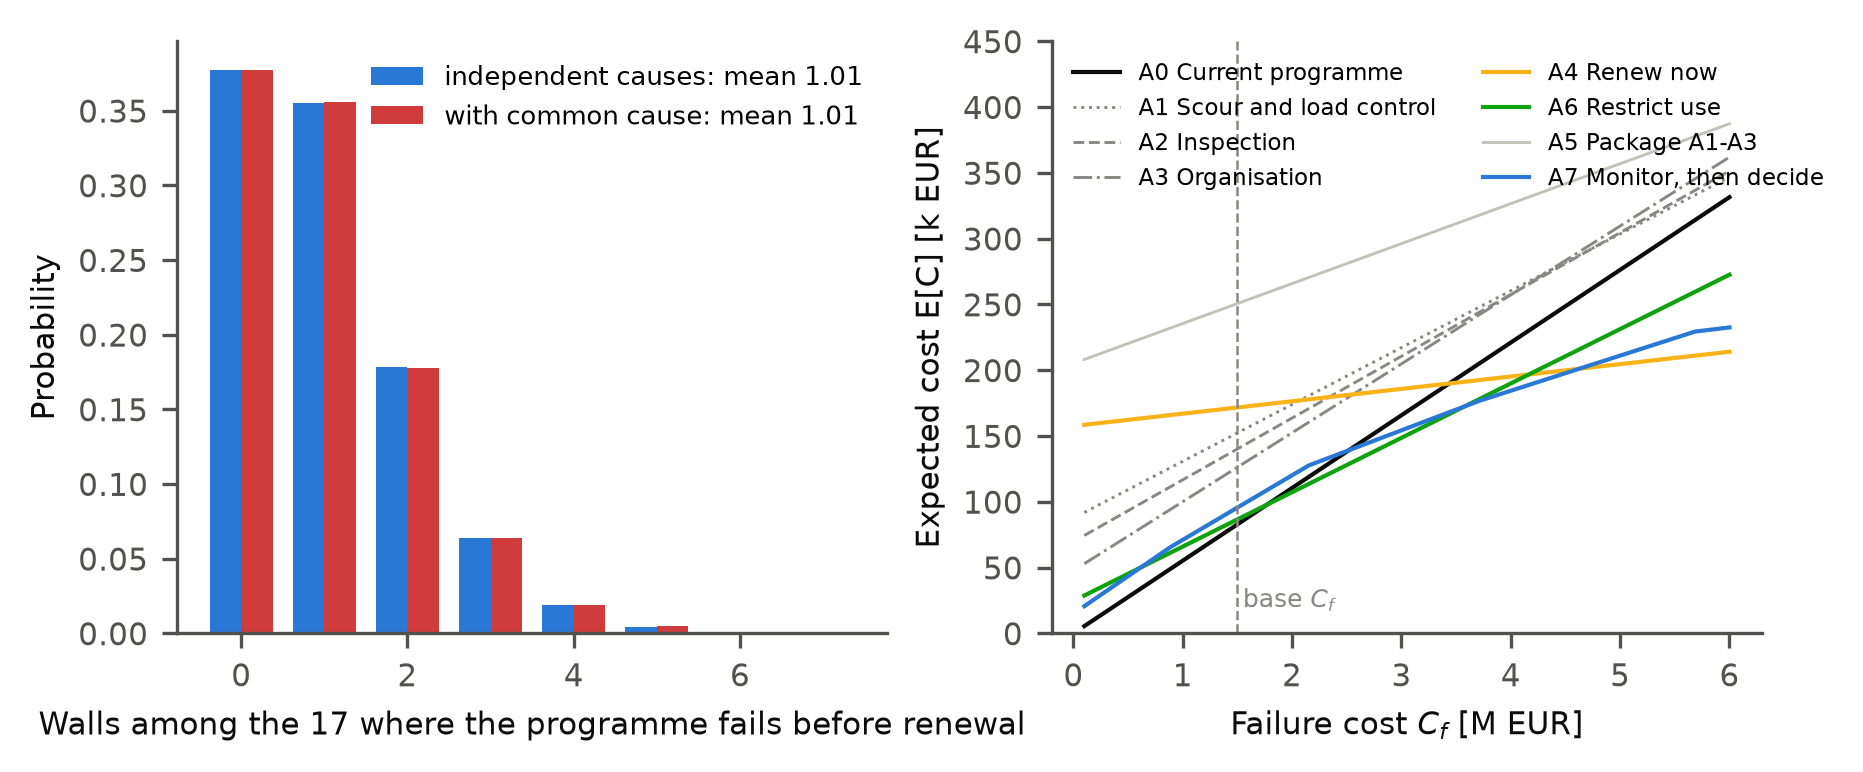
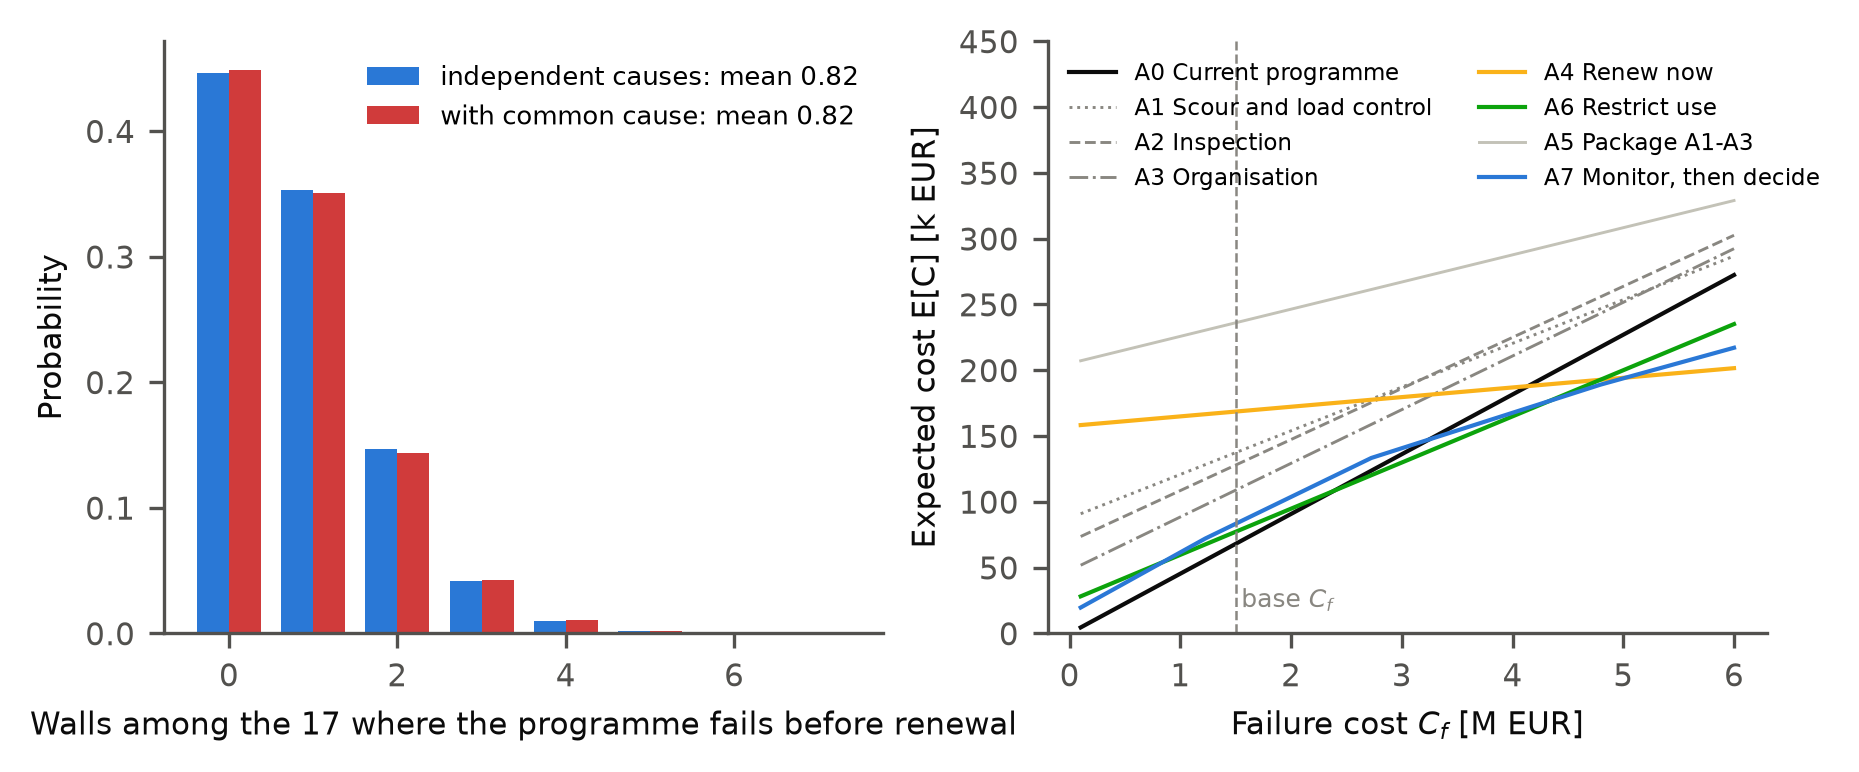
fault_tree.py: corrected repair-chain logic and LS range; TikZ generator for Figure 3.1

diff --git a/scripts/fault_tree_figure.py b/scripts/fault_tree_figure.py
@@ -1,0 +1,125 @@
+"""TikZ drawing of the fault tree of report section 3.1 (Figure 3.1).
+
+The tree is drawn left to right: the top event on the left, the basic events in
+one column on the right. Gates are labelled OR or AND. The repair chain
+("weakening not repaired in time") feeds both resistance branches and is drawn
+once; WT and GW appear twice as the same event. The logic matches fault_tree.py:
+
+  not_recognised = (S1 or S2 or S3 or I1 or I2) and NW
+  not_repaired   = not_recognised or I3 or (L1 or L2 or L3 or L4)
+
+Writes report/figures/fault_tree_tikz.tex. Run: python3 scripts/fault_tree_figure.py
+"""
+
+from pathlib import Path
+
+ROOT = Path(__file__).resolve().parents[1]
+OUT = ROOT / "report" / "figures" / "fault_tree_tikz.tex"
+
+# category: T technical, H human, O organisational, E external (colours of the old figure)
+LEAVES = {
+    "G1": ("T", "Soil heavier or pushes harder"), "G2": ("T", "Canal bed lower than assumed"),
+    "W2": ("T", "Drainage blocked behind the wall"), "GW": ("E", "Groundwater outside normal range"),
+    "Q1": ("O", "Traffic heavier than allowed"), "Q2": ("T", "Vehicles, terraces or goods at the edge"),
+    "Q3": ("O", "Crane or construction traffic"), "E1": ("E", "Vessel impact or mooring overload"),
+    "E2": ("T", "Root pressure from trees"), "E3": ("T", "Larger scour event"),
+    "E4": ("E", "Excavation or pipe burst"), "P1": ("T", "Bacteria thin the piles"),
+    "P3": ("T", "Pile condition worse than assumed"), "WT": ("T", "Wall is the weaker type 1"),
+    "M1": ("T", "Masonry degrades"), "M2": ("T", "Cross-section differs from drawing"),
+    "S1": ("H", "Wrong year or foundation in register"), "S2": ("O", "Screening rule misses the wall"),
+    "S3": ("O", "Model misses the risk"), "I1": ("O", "Targeted inspection not done in time"),
+    "I2": ("H", "Damage under water missed"), "NW": ("T", "No visible warning before failure"),
+    "I3": ("H", "Warning not acted on"), "L1": ("O", "Capacity or budget too small"),
+    "L2": ("O", "Heritage permit delays repair"), "L3": ("O", "Cellar owner consents late"),
+    "L4": ("E", "Unexpected condition delays repair"),
+}
+# (label, gate, children); a str child is a basic event, "REPAIR" the shared chain
+REPAIR = ("Weakening not repaired in time", "OR", [
+    ("Weakness not recognised", "AND", [
+        ("Screening or targeted inspection misses it", "OR", ["S1", "S2", "S3", "I1", "I2"]),
+        "NW"]),
+    "I3",
+    ("Repair comes too late", "OR", ["L1", "L2", "L3", "L4"])])
+TREE = ("Programme does not prevent a wall failure before renewal", "OR", [
+    ("Load too high", "OR", [
+        ("Soil load", "OR", ["G1", "G2"]),
+        ("Water load", "OR", ["W2", "GW"]),
+        ("Surcharge", "OR", ["Q1", "Q2", "Q3"]),
+        ("Sudden impact, scour or works", "OR", ["E1", "E2", "E3", "E4"])]),
+    ("Resistance too low", "OR", [
+        ("Piles fail in bending", "AND", [("Piles weak", "OR", ["P1", "P3", "WT", "GW"]), "REPAIR"]),
+        ("Wall overturns", "AND", [("Wall weak", "OR", ["M1", "M2", "WT"]), "REPAIR"])])])
+
+COL = 1.85        # cm between levels
+ROW = 0.37        # cm between basic events
+BOX_W = 1.3       # cm, width of a gate label
+LEAF_X = 6 * COL
+
+
+def emit():
+    lines = [r"\definecolor{ftT}{HTML}{E3EDFA}\definecolor{ftTb}{HTML}{2A78D6}",
+             r"\definecolor{ftH}{HTML}{FDEBD9}\definecolor{ftHb}{HTML}{C26A14}",
+             r"\definecolor{ftO}{HTML}{EFE6F6}\definecolor{ftOb}{HTML}{7C3AED}",
+             r"\definecolor{ftE}{HTML}{E6F2E0}\definecolor{ftEb}{HTML}{3F7D2A}",
+             r"\definecolor{ftG}{HTML}{1F2937}\definecolor{ftL}{HTML}{6B7280}",
+             r"\begin{tikzpicture}[x=1cm,y=1cm,font=\fontsize{6.2}{7}\selectfont,"
+             r"every node/.style={inner sep=1pt}]",
+             r"\tikzset{gate/.style={draw=ftG,fill=white,rounded corners=1.5pt,"
+             r"font=\fontsize{5}{5}\selectfont\bfseries,minimum width=0.42cm,minimum height=0.22cm},"
+             r"andgate/.style={gate,fill=ftG,text=white},"
+             r"ev/.style={draw=ftG,fill=white,rounded corners=1pt,align=left,text width=1.2cm,"
+             r"minimum height=0.3cm},line/.style={ftL,line width=0.4pt}}"]
+    row = [0]
+    repair_y = {}
+
+    def leaf(code):
+        y = -row[0] * ROW
+        row[0] += 1
+        cat, text = LEAVES[code]
+        lines.append(rf"\node[draw=ft{cat}b,fill=ft{cat},rounded corners=1pt,anchor=west,"
+                     rf"minimum height=0.3cm,text width=4.35cm] at ({LEAF_X:.2f},{y:.2f}) "
+                     rf"{{\textbf{{\color{{ft{cat}b}}{code}}}\ \ {text}}};")
+        return y
+
+    def node(item, level):
+        if isinstance(item, str):
+            if item == "REPAIR":
+                if "y" in repair_y:      # drawn once; the second branch refers to it
+                    y = -row[0] * ROW
+                    row[0] += 1
+                    lines.append(rf"\node[ev,anchor=west,dashed,text width=2.9cm] at ({level * COL:.2f},{y:.2f})"
+                                 rf" {{\itshape Weakening not repaired in time (as above)}};")
+                    return y, False
+                y = node(REPAIR, level)[0]
+                repair_y["y"] = y
+                return y, False
+            return leaf(item), False
+        label, gate, children = item
+        ys = [(node(c, level + 1), c) for c in children]
+        y = sum(v[0][0] for v in ys) / len(ys) if len(ys) > 1 else ys[0][0][0]
+        x = level * COL
+        lines.append(rf"\node[ev,anchor=west] at ({x:.2f},{y:.2f}) {{{label}}};")
+        gx = x + BOX_W + 0.06
+        lines.append(rf"\node[{'andgate' if gate == 'AND' else 'gate'},anchor=west] (g) at ({gx:.2f},{y:.2f}) {{{gate}}};")
+        bus = gx + 0.52
+        lines.append(rf"\draw[line] (g.east) -- ({bus:.2f},{y:.2f});")
+        cy = [v[0][0] for v in ys]
+        lines.append(rf"\draw[line] ({bus:.2f},{min(cy):.2f}) -- ({bus:.2f},{max(cy):.2f});")
+        for (cyy, _), child in ys:
+            target = LEAF_X if isinstance(child, str) and child != "REPAIR" else (level + 1) * COL
+            lines.append(rf"\draw[line] ({bus:.2f},{cyy:.2f}) -- ({target:.2f},{cyy:.2f});")
+        return y, False
+
+    top = node(TREE, 0)[0]
+    lines.append(r"\end{tikzpicture}")
+    return "\n".join(lines)
+
+
+def main() -> None:
+    OUT.write_text("% Generated by scripts/fault_tree_figure.py.\n"
+                   + emit() + "\n")
+    print(f"-> {OUT.relative_to(ROOT)}")
+
+
+if __name__ == "__main__":
+    main()

diff --git a/scripts/fault_tree.py b/scripts/fault_tree.py
@@ -2,11 +2,16 @@
 
 The tree, for one wall over the years until it is renewed:
 
-  top            = load OR (M AND not_repaired)
+  top            = load OR (LS AND not_repaired)
   load           = W2 OR Q1 OR Q2 OR Q3 OR E1 OR E2 OR E3 OR E4
-  not_repaired   = D OR not_recognised OR I3 OR repair_late
-  not_recognised = (S1 OR S2 OR S3) AND (I1 OR I2)
+  not_repaired   = not_recognised OR I3 OR repair_late
+  not_recognised = (S1 OR S2 OR S3 OR I1 OR I2) AND NW
   repair_late    = L1 OR L2 OR L3 OR L4
+
+A weakness stays unrecognised only if the targeted route misses it (the
+screening does not send the wall to a dive, or the dive is not done or misses
+the damage) AND it gives no visible warning that a regular inspection could see.
+In the code the event M is LS of the report and D is NW.
 
 Exposure. The walls are renewed around 2031 (section 4.1), so a wall is exposed
 only until its renewal, not for the 15-year reference period of NEN 8700.
@@ -17,10 +22,12 @@ Table 3.1 and are scaled to T as 1 - (1 - p)^(T / 15). The human and
 organisational events are chances per weakness or per programme, so they are
 not scaled.
 
-D is the chance that a weakness gives no warning that an inspection could see
-before the limit state is reached: pile bending and overturning of a low wall
-give little warning. Without D the AND gate would let the repair chain stop
-every failure that the model predicts.
+D (NW) is the chance that a weakness gives no warning that a regular inspection
+could see before the limit state is reached: pile bending and overturning of a
+low wall give little warning.
+
+Range of M: from the wall being type 2 (low) to type 1 (high), the largest
+uncertainty in the model (report section 1.3), with the same exposure.
 
 The median wall (median beta) is Oude Gracht Rak 09 WZ. For the 17 walls
 together, a Monte Carlo links the M events of the walls with a Gaussian copula
@@ -48,7 +55,7 @@ from scipy.stats import norm
 ROOT = Path(__file__).resolve().parents[1]
 WALLS = ROOT / "data" / "processed" / "production_rate_walls.csv"
 CHECKS = ROOT / "data" / "processed" / "walmuur_model_checks.csv"
-SENS = ROOT / "data" / "processed" / "walmuur_sensitivity.csv"
+RESULTS = ROOT / "data" / "processed" / "walmuur_failure_probability.csv"
 MEDIAN_WALL = "Oude Gracht - Rak 09 WZ"
 
 # ---- Inputs ----------------------------------------------------------------
@@ -109,8 +116,8 @@ def discount(T):
 def tree(p):
     """Top event and the two main branches for a dict of event probabilities."""
     load = p_or(*(p[e] for e in LOAD))
-    not_recognised = p_or(p["S1"], p["S2"], p["S3"]) * p_or(p["I1"], p["I2"])
-    not_repaired = p_or(p["D"], not_recognised, p["I3"], p_or(p["L1"], p["L2"], p["L3"], p["L4"]))
+    not_recognised = p_or(p["S1"], p["S2"], p["S3"], p["I1"], p["I2"]) * p["D"]
+    not_repaired = p_or(not_recognised, p["I3"], p_or(p["L1"], p["L2"], p["L3"], p["L4"]))
     return p_or(load, p["M"] * not_repaired), load, not_repaired
 
 
@@ -157,8 +164,8 @@ def monte_carlo(p_walls, rng):
             own = rng.random((N_MC, n)) < (pe - share * pe) / np.maximum(1 - share * pe, 1e-12)
             o[e] = shared | own
         load = np.logical_or.reduce([o[e] for e in LOAD])
-        not_recognised = (o["S1"] | o["S2"] | o["S3"]) & (o["I1"] | o["I2"])
-        not_repaired = o["D"] | not_recognised | o["I3"] | o["L1"] | o["L2"] | o["L3"] | o["L4"]
+        not_recognised = (o["S1"] | o["S2"] | o["S3"] | o["I1"] | o["I2"]) & o["D"]
+        not_repaired = not_recognised | o["I3"] | o["L1"] | o["L2"] | o["L3"] | o["L4"]
         count = (load | (o["M"] & not_repaired)).sum(axis=1)
         out.append((count.mean(), count.std(), (count >= 5).mean(), count))
     return out
@@ -169,9 +176,9 @@ def main() -> dict:
     walls = read_walls()
     checks = {r["Naam"]: r for r in csv.DictReader(CHECKS.open())}[MEDIAN_WALL]
     T, M, pf15 = walls[MEDIAN_WALL]
-    sens = {r["Naam"]: r for r in csv.DictReader(SENS.open())}[MEDIAN_WALL]
-    cols = ["beta_base", "beta_kgamma", "beta_more", "beta_groundwater", "beta_soil_mixed"]
-    m_range = [1 - (1 - M)**(np.log(1 - norm.cdf(-float(sens[c]))) / np.log(1 - pf15)) for c in cols]
+    types = {r["type"]: float(r["pf_updated"]) for r in csv.DictReader(RESULTS.open())
+             if r["Naam"] == MEDIAN_WALL and r["year"] == "2026" and r["type"] in ("type 1", "type 2")}
+    m_range = [1 - (1 - M)**(np.log(1 - types[t]) / np.log(1 - pf15)) for t in ("type 2", "type 1")]
     base = events("base", T, M)
     low = events("low", T, min(m_range))
     high = events("high", T, max(m_range))
@@ -179,7 +186,7 @@ def main() -> dict:
     print(f"{MEDIAN_WALL}: T = {T:.2f} yr until renewal, M = {M:.4f} ({min(m_range):.4f}-{max(m_range):.4f});"
           f" over 15 years M would be {pf15:.3f}")
     print(f"load {load:.4f}, not repaired in time {not_repaired:.3f}, top {top:.4f};"
-          f" without repair {tree(base | {'D': 1.0})[0]:.4f}; without D {tree(base | {'D': 0.0})[0]:.4f}")
+          f" without repair {tree(base | {'I3': 1.0})[0]:.4f}; without D {tree(base | {'D': 0.0})[0]:.4f}")
     print(f"all low {tree(low)[0]:.4f}, all high {tree(high)[0]:.4f}")
     p_walls = [events("base", t, m) for (t, m, _) in walls.values()]
     per_wall = np.array([tree(p)[0] for p in p_walls])
